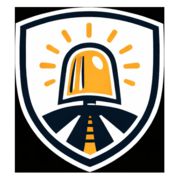
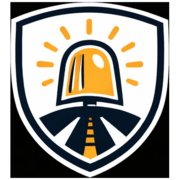
Space City Cruise Collective: Texas Courier & Contract Routes Services - Session 5 (698e86f8289326b0fca9d116)

diff --git a/index.html b/index.html
@@ -424,13 +424,14 @@
       z-index:1;
     }
     .hero-logo img{
-      max-width:280px;
+      max-width:420px;
+      width:100%;
       height:auto;
       opacity:0.92;
       filter:drop-shadow(0 2px 8px rgba(245,166,35,0.18));
     }
     @media (max-width: 900px){
-      .hero-logo img{max-width:220px}
+      .hero-logo img{max-width:320px}
     }
 
     /* ====== SECTION ====== */
